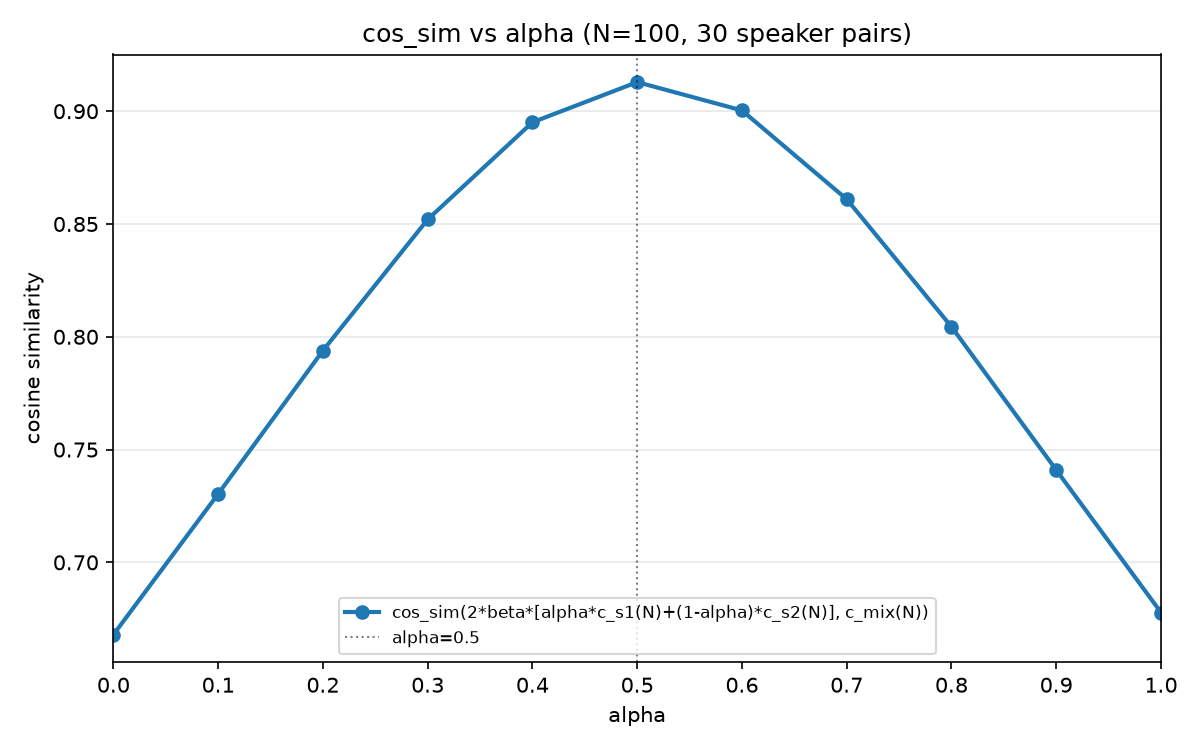
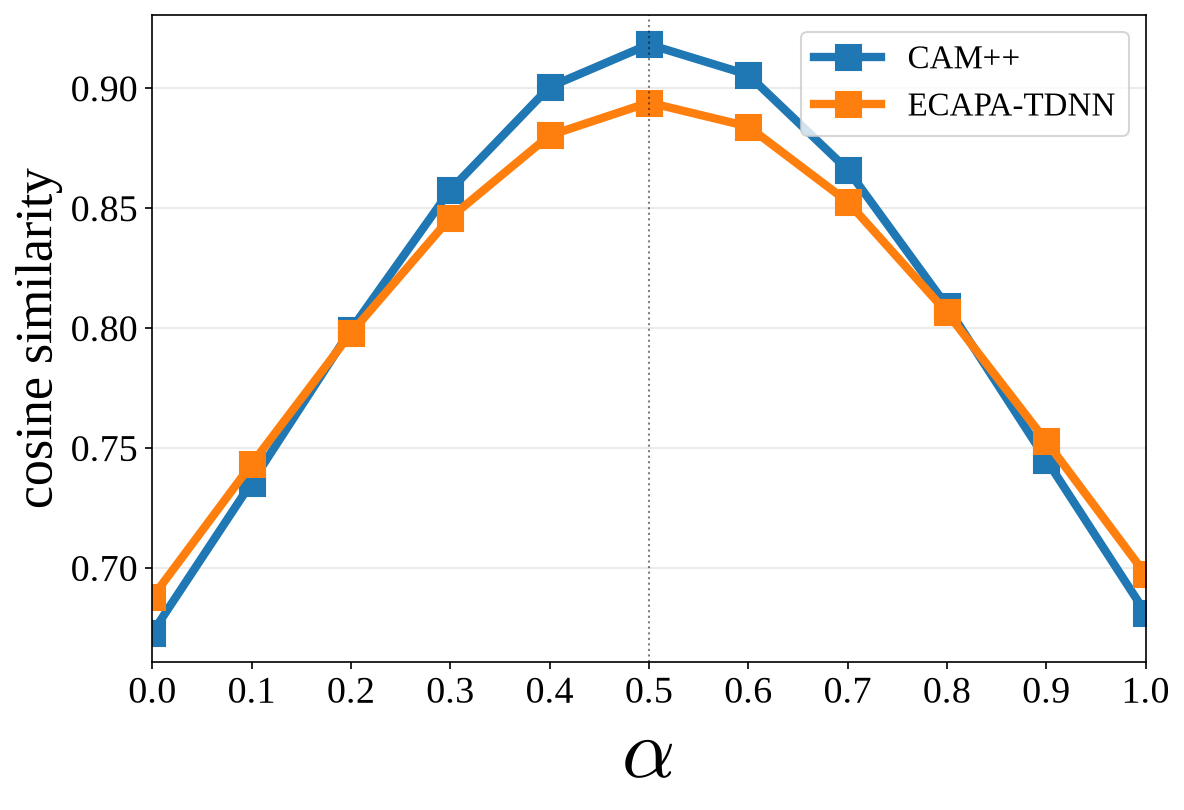
Update param sweep figures, data, and generation scripts

diff --git a/csm/speakerlab/bin/analysis/param_sweep.py b/csm/speakerlab/bin/analysis/param_sweep.py
@@ -278,9 +278,9 @@ def main():
     parser.add_argument("--ecapa-ckpt", default=DEFAULT_ECAPA_CKPT)
     parser.add_argument("--emb-dim", type=int, default=192)
     parser.add_argument("--sample-rate", type=int, default=16000)
-    parser.add_argument("--enroll-len", type=_len_or_full, default="full",
+    parser.add_argument("--enroll-len", type=_len_or_full, default=3.0,
                          help="Crop length (s) for s1/s2 utterances; 'full' uses each utterance's own length.")
-    parser.add_argument("--mix-len", type=_len_or_full, default="full",
+    parser.add_argument("--mix-len", type=_len_or_full, default=3.0,
                          help="Crop length (s) for synthesized mixtures; 'full' crops to the shorter utterance.")
     parser.add_argument("--sir-range", type=float, nargs=2, default=[-5.0, 5.0])
     parser.add_argument("--n", type=int, default=DEFAULT_N,

diff --git a/csm/speakerlab/bin/plotting/replot_param_sweep.py b/csm/speakerlab/bin/plotting/replot_param_sweep.py
@@ -77,7 +77,7 @@ def plot_beta_vs_mse(series, output_path):
     ax.set_ylabel("MSE", size=YLABEL_SIZE)
     ax.tick_params(axis="both", labelsize=TICK_LABEL_SIZE)
     if len(series) > 1:
-        ax.legend(loc="best", fontsize=LEGEND_FONT_SIZE)
+        ax.legend(loc="upper right", fontsize=LEGEND_FONT_SIZE)
     ax.grid(True, axis="y", alpha=0.3)
     fig.tight_layout()
     fig.savefig(output_path, dpi=150, bbox_inches="tight")
